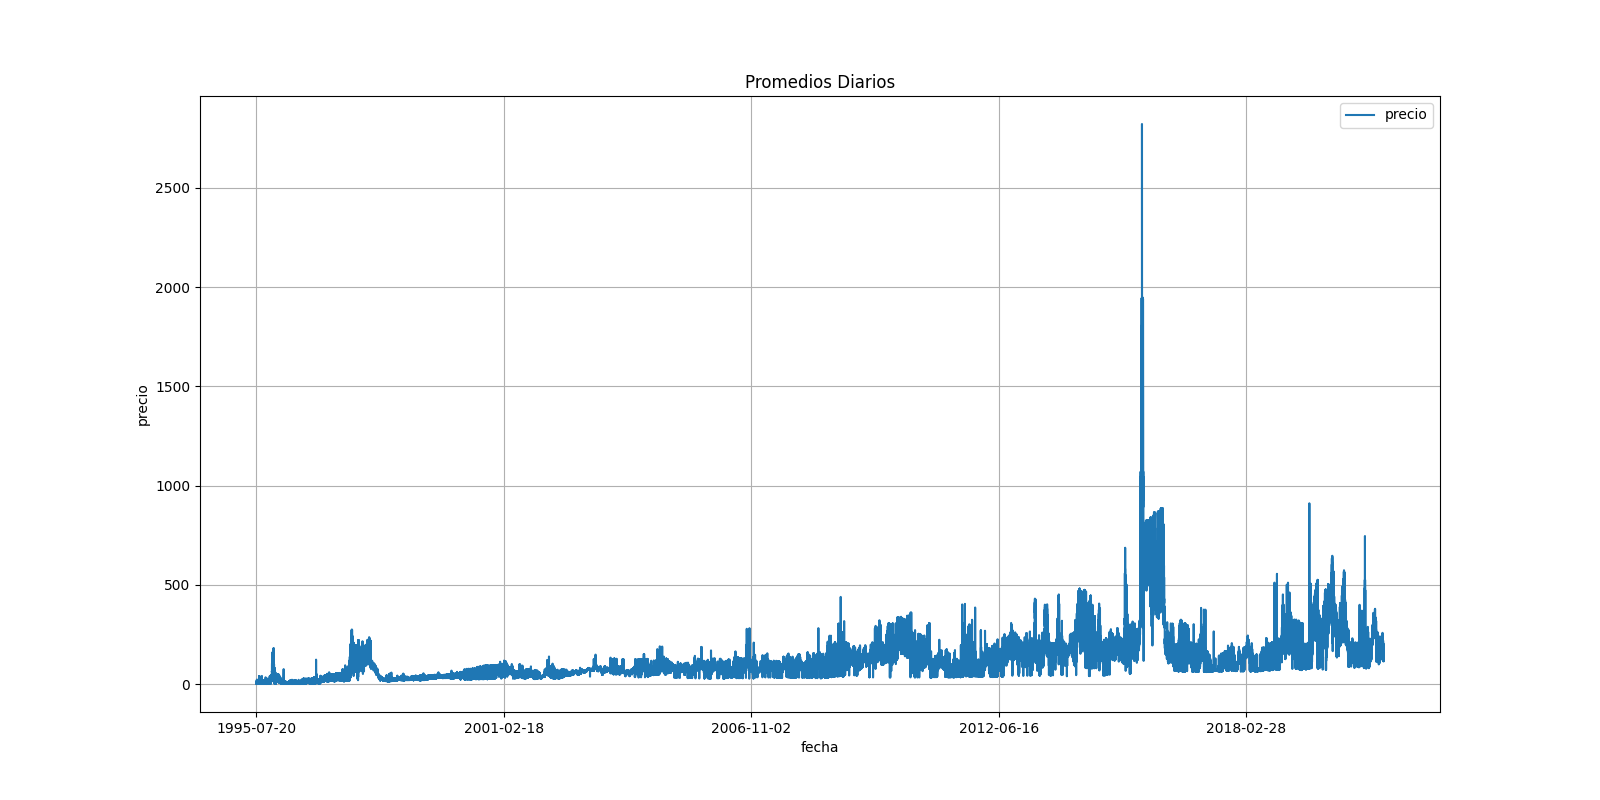
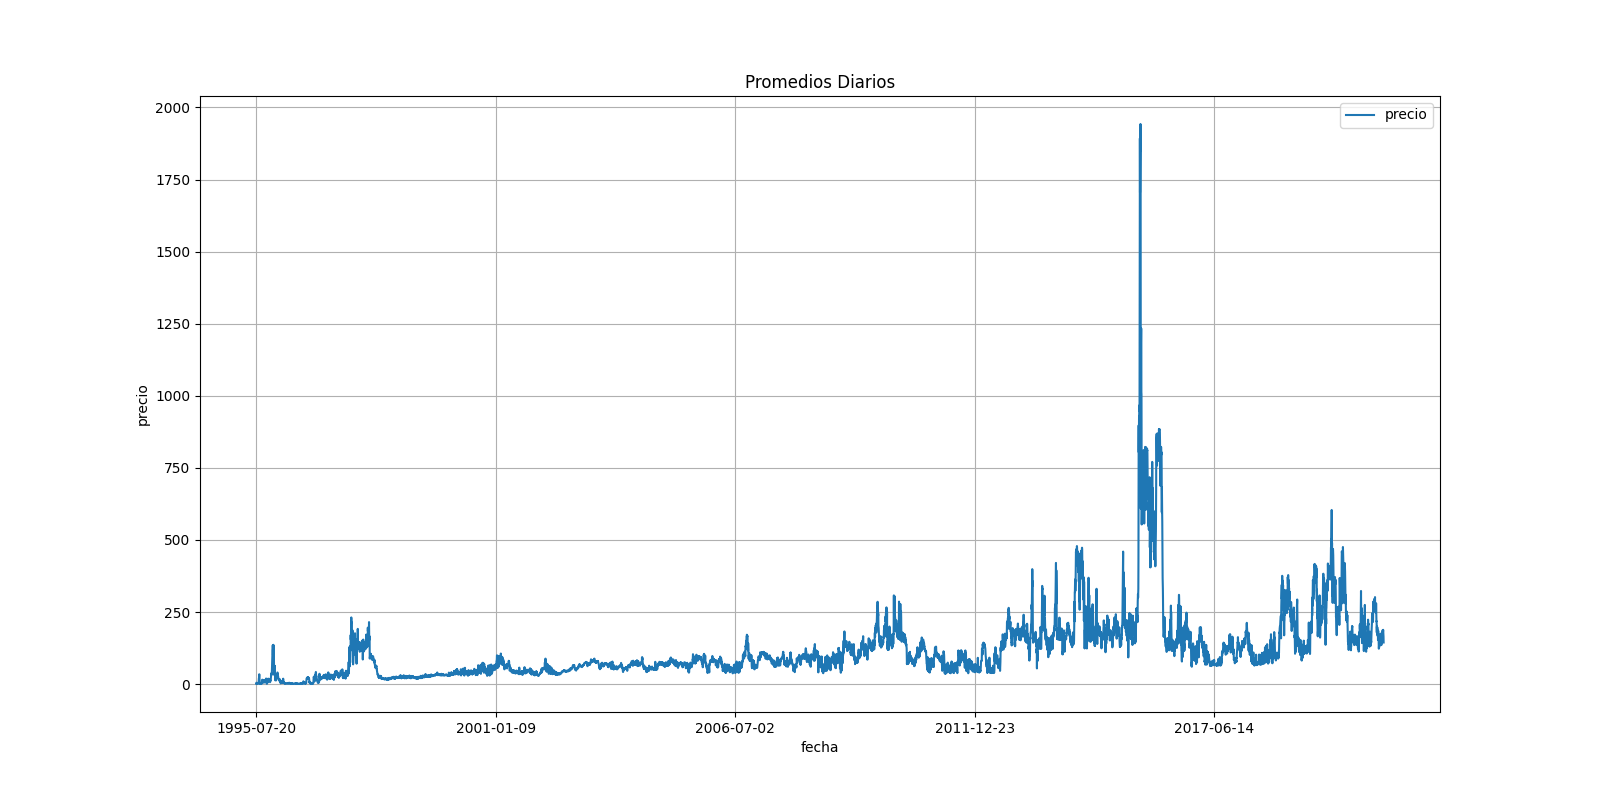
Lab1_v18
Lab1_v18

diff --git a/src/visualization/make_daily_prices_plot.py b/src/visualization/make_daily_prices_plot.py
@@ -19,10 +19,9 @@ def make_daily_prices_plot():
 
     """
     #raise NotImplementedError("Implementar esta función")
-    import os
     import pandas as pd
 
-    precios_diarios = pd.read_csv('data_lake/cleansed/precios-horarios.csv')
+    precios_diarios = pd.read_csv('data_lake/business/precios-diarios.csv')
     fig_precios_diarios = precios_diarios.plot(x = 'fecha', y = 'precio', xlabel = 'fecha', ylabel = 'precio', kind = 'line', figsize = (16,8), grid = True, title = 'Promedios Diarios').get_figure()
     fig_precios_diarios.savefig('data_lake/business/reports/figures/daily_prices.png')
 
